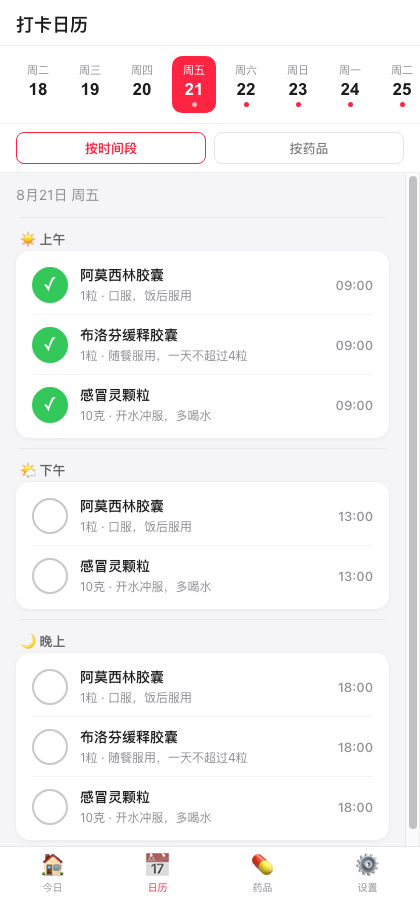
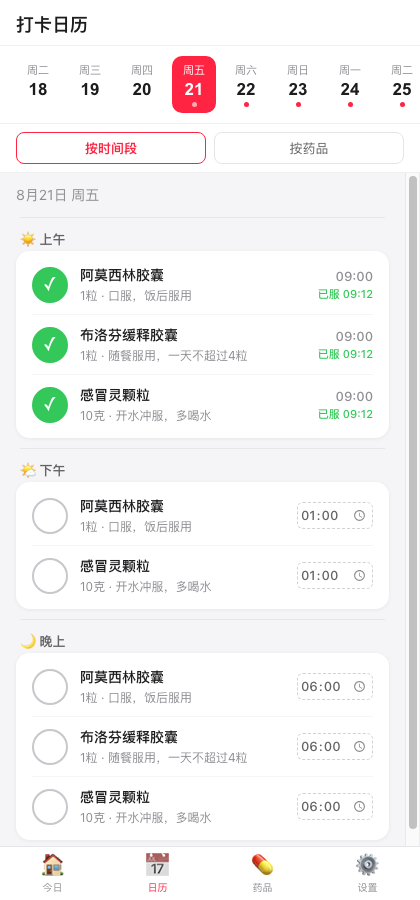
feat: per-dose time editing in Today/Calendar; show real taken time after check-in
- Today/Calendar: each un-taken dose has an editable time input; changing it
  persists to that log only (default schedule untouched), re-segments and
  re-sorts the view, and reschedules today's notifications
- Taken doses now display the real check-in time (已服 HH:MM) so the user
  can judge the gap before the next dose
- add .dose-time-input/.dose-taken-at styles; fixes classList.contains check
- regenerate UI screenshots; docs update

diff --git a/assets/app.js b/assets/app.js
@@ -108,10 +108,29 @@ window.App = (function () {
     return html;
   }
 
+  function fmtClock(iso) {
+    if (!iso) return '';
+    var d = new Date(iso);
+    if (isNaN(d.getTime())) return '';
+    var h = d.getHours(), m = d.getMinutes();
+    return (h < 10 ? '0' + h : '' + h) + ':' + (m < 10 ? '0' + m : '' + m);
+  }
+
   function renderDoseItem(log, med, status, withSegment) {
     var icon = status === 'taken' ? '✓' : status === 'missed' ? '✗' : '';
-    var timeLabel = log.scheduledTime;
-    if (withSegment) timeLabel = Utils.segmentOfTime(timeLabel) + ' ' + timeLabel;
+    var segPrefix = withSegment ? Utils.segmentOfTime(log.scheduledTime) + ' ' : '';
+    var timeHtml;
+    if (status === 'taken') {
+      // 已打卡:展示计划时间 + 实际打卡时刻,便于判断下一剂的间隔
+      timeHtml = '<div class="dose-time">'
+        + '<span class="dose-time-plan">' + segPrefix + log.scheduledTime + '</span>'
+        + (log.takenAt ? '<span class="dose-taken-at">已服 ' + fmtClock(log.takenAt) + '</span>' : '')
+        + '</div>';
+    } else {
+      // 未打卡:时间本身可直接编辑(系统时间选择器),改完自动重新分段/重排通知
+      timeHtml = '<input type="time" class="dose-time-input" value="' + log.scheduledTime
+        + '" data-log-id="' + log.id + '" aria-label="修改服药时间">';
+    }
     return '<div class="dose-item">'
       + '<button class="dose-check ' + status + '" data-action="take-dose" data-log-id="' + log.id + '">' + icon + '</button>'
       + '<div class="dose-info">'
@@ -119,7 +138,7 @@ window.App = (function () {
       + '<div class="dose-detail">' + med.dosePerTime + med.doseUnit
       + (med.instructions ? ' · ' + med.instructions : '') + '</div>'
       + '</div>'
-      + '<div class="dose-time">' + timeLabel + '</div>'
+      + timeHtml
       + '</div>';
   }
 
@@ -927,8 +946,24 @@ window.App = (function () {
   }
 
   // ── Init ───────────────────────────────────────────────────────────────────
+  // 今日/日历中单个服药任务的时间修改（input[type=time] 变更即保存）。
+  // 只改这一条日志，不影响药品的默认时间表；改完重新渲染并按新时间重排通知。
+  function handleDoseTimeChange(e) {
+    var input = e.target;
+    if (!input || !input.classList.contains('dose-time-input')) return;
+    var logId = input.getAttribute('data-log-id');
+    var v = input.value;
+    if (!logId || !/^([01]\d|2[0-3]):[0-5]\d$/.test(v)) return;
+    var log = Store.getLog(logId);
+    if (!log || log.scheduledTime === v) return;
+    Store.updateLog(logId, { scheduledTime: v });
+    renderView(currentView);
+    if (Store.getSettings().notifyEnabled) scheduleTodayNotifications();
+  }
+
   function init() {
     document.addEventListener('click', handleClick);
+    document.addEventListener('change', handleDoseTimeChange);
     bindPhotoInput();
     bindOverlays();
     bindScanInput();

diff --git a/www/assets/app.js b/www/assets/app.js
@@ -108,10 +108,29 @@ window.App = (function () {
     return html;
   }
 
+  function fmtClock(iso) {
+    if (!iso) return '';
+    var d = new Date(iso);
+    if (isNaN(d.getTime())) return '';
+    var h = d.getHours(), m = d.getMinutes();
+    return (h < 10 ? '0' + h : '' + h) + ':' + (m < 10 ? '0' + m : '' + m);
+  }
+
   function renderDoseItem(log, med, status, withSegment) {
     var icon = status === 'taken' ? '✓' : status === 'missed' ? '✗' : '';
-    var timeLabel = log.scheduledTime;
-    if (withSegment) timeLabel = Utils.segmentOfTime(timeLabel) + ' ' + timeLabel;
+    var segPrefix = withSegment ? Utils.segmentOfTime(log.scheduledTime) + ' ' : '';
+    var timeHtml;
+    if (status === 'taken') {
+      // 已打卡:展示计划时间 + 实际打卡时刻,便于判断下一剂的间隔
+      timeHtml = '<div class="dose-time">'
+        + '<span class="dose-time-plan">' + segPrefix + log.scheduledTime + '</span>'
+        + (log.takenAt ? '<span class="dose-taken-at">已服 ' + fmtClock(log.takenAt) + '</span>' : '')
+        + '</div>';
+    } else {
+      // 未打卡:时间本身可直接编辑(系统时间选择器),改完自动重新分段/重排通知
+      timeHtml = '<input type="time" class="dose-time-input" value="' + log.scheduledTime
+        + '" data-log-id="' + log.id + '" aria-label="修改服药时间">';
+    }
     return '<div class="dose-item">'
       + '<button class="dose-check ' + status + '" data-action="take-dose" data-log-id="' + log.id + '">' + icon + '</button>'
       + '<div class="dose-info">'
@@ -119,7 +138,7 @@ window.App = (function () {
       + '<div class="dose-detail">' + med.dosePerTime + med.doseUnit
       + (med.instructions ? ' · ' + med.instructions : '') + '</div>'
       + '</div>'
-      + '<div class="dose-time">' + timeLabel + '</div>'
+      + timeHtml
       + '</div>';
   }
 
@@ -927,8 +946,24 @@ window.App = (function () {
   }
 
   // ── Init ───────────────────────────────────────────────────────────────────
+  // 今日/日历中单个服药任务的时间修改（input[type=time] 变更即保存）。
+  // 只改这一条日志，不影响药品的默认时间表；改完重新渲染并按新时间重排通知。
+  function handleDoseTimeChange(e) {
+    var input = e.target;
+    if (!input || !input.classList.contains('dose-time-input')) return;
+    var logId = input.getAttribute('data-log-id');
+    var v = input.value;
+    if (!logId || !/^([01]\d|2[0-3]):[0-5]\d$/.test(v)) return;
+    var log = Store.getLog(logId);
+    if (!log || log.scheduledTime === v) return;
+    Store.updateLog(logId, { scheduledTime: v });
+    renderView(currentView);
+    if (Store.getSettings().notifyEnabled) scheduleTodayNotifications();
+  }
+
   function init() {
     document.addEventListener('click', handleClick);
+    document.addEventListener('change', handleDoseTimeChange);
     bindPhotoInput();
     bindOverlays();
     bindScanInput();

diff --git a/assets/style.css b/assets/style.css
@@ -84,7 +84,20 @@ body {
 .dose-info { flex: 1; }
 .dose-name { font-size: 14px; font-weight: 500; }
 .dose-detail { font-size: 12px; color: #8e8e93; margin-top: 2px; }
-.dose-time { font-size: 13px; color: #8e8e93; font-weight: 500; }
+.dose-time { font-size: 13px; color: #8e8e93; font-weight: 500; text-align: right; }
+.dose-time-plan { display: block; }
+.dose-taken-at {
+  display: block; font-size: 11px; color: #34c759; font-weight: 500; margin-top: 2px;
+}
+/* 单个任务的时间编辑:去掉原生边框,点击即弹系统时间选择器 */
+.dose-time-input {
+  border: 1px dashed #d1d1d6; border-radius: 6px; background: none;
+  font: inherit; font-size: 13px; font-weight: 500; color: #636366;
+  width: 76px; text-align: center; padding: 3px 2px; outline: none;
+}
+.dose-time-input:focus { border-color: #0a84ff; color: #0a84ff; }
+.dose-time-input::-webkit-datetime-edit { padding: 0; }
+.dose-time-input::-webkit-calendar-picker-indicator { opacity: .45; }
 
 /* ── Time group header ───────────────────────────────────────────────────── */
 .group-header {

diff --git a/www/assets/style.css b/www/assets/style.css
@@ -84,7 +84,20 @@ body {
 .dose-info { flex: 1; }
 .dose-name { font-size: 14px; font-weight: 500; }
 .dose-detail { font-size: 12px; color: #8e8e93; margin-top: 2px; }
-.dose-time { font-size: 13px; color: #8e8e93; font-weight: 500; }
+.dose-time { font-size: 13px; color: #8e8e93; font-weight: 500; text-align: right; }
+.dose-time-plan { display: block; }
+.dose-taken-at {
+  display: block; font-size: 11px; color: #34c759; font-weight: 500; margin-top: 2px;
+}
+/* 单个任务的时间编辑:去掉原生边框,点击即弹系统时间选择器 */
+.dose-time-input {
+  border: 1px dashed #d1d1d6; border-radius: 6px; background: none;
+  font: inherit; font-size: 13px; font-weight: 500; color: #636366;
+  width: 76px; text-align: center; padding: 3px 2px; outline: none;
+}
+.dose-time-input:focus { border-color: #0a84ff; color: #0a84ff; }
+.dose-time-input::-webkit-datetime-edit { padding: 0; }
+.dose-time-input::-webkit-calendar-picker-indicator { opacity: .45; }
 
 /* ── Time group header ───────────────────────────────────────────────────── */
 .group-header {

diff --git a/README.md b/README.md
@@ -15,6 +15,7 @@ An offline-first medication reminder PWA, packaged as an Android APK, with fully
 | 🇨🇳 中文 | 🇬🇧 English |
 |---|---|
 | 📅 今日打卡 + 日历视图(上午/下午/晚上分段) | Daily check-in + segmented calendar view |
+| ✏ 每次服药时间可单独修改,打卡后显示实际服用时刻 | Per-dose time editable; check-in shows real taken time |
 | 💊 药品管理:剂量、频次、疗程、库存、保质期 | Medication management: dose, frequency, course, stock & expiry |
 | ⏰ 本地通知:到点未打卡才提醒,打卡后自动取消 | Local notifications only for un-taken doses — never after check-in |
 | 📷 拍照识别说明书(PP-OCRv3,全部本机运行) | Photo OCR of leaflets (PP-OCRv3, 100% on-device) |
@@ -24,9 +25,9 @@ An offline-first medication reminder PWA, packaged as an Android APK, with fully
 
 ## 📲 安装 / Install
 
-在 [Releases](https://github.com/marsggbo/med-reminder/releases) 下载 `med-reminder-v1.0.apk`,传到 Android 手机安装即可(调试签名版)。
+在 [Releases](https://github.com/marsggbo/med-reminder/releases) 下载 `med-reminder-v1.0.1.apk`,传到 Android 手机安装即可(调试签名版)。
 
-> Download `med-reminder-v1.0.apk` from **Releases** and sideload it on your Android phone.
+> Download `med-reminder-v1.0.1.apk` from **Releases** and sideload it on your Android phone.
 
 ## 🏗 从源码构建 / Build from Source
 
